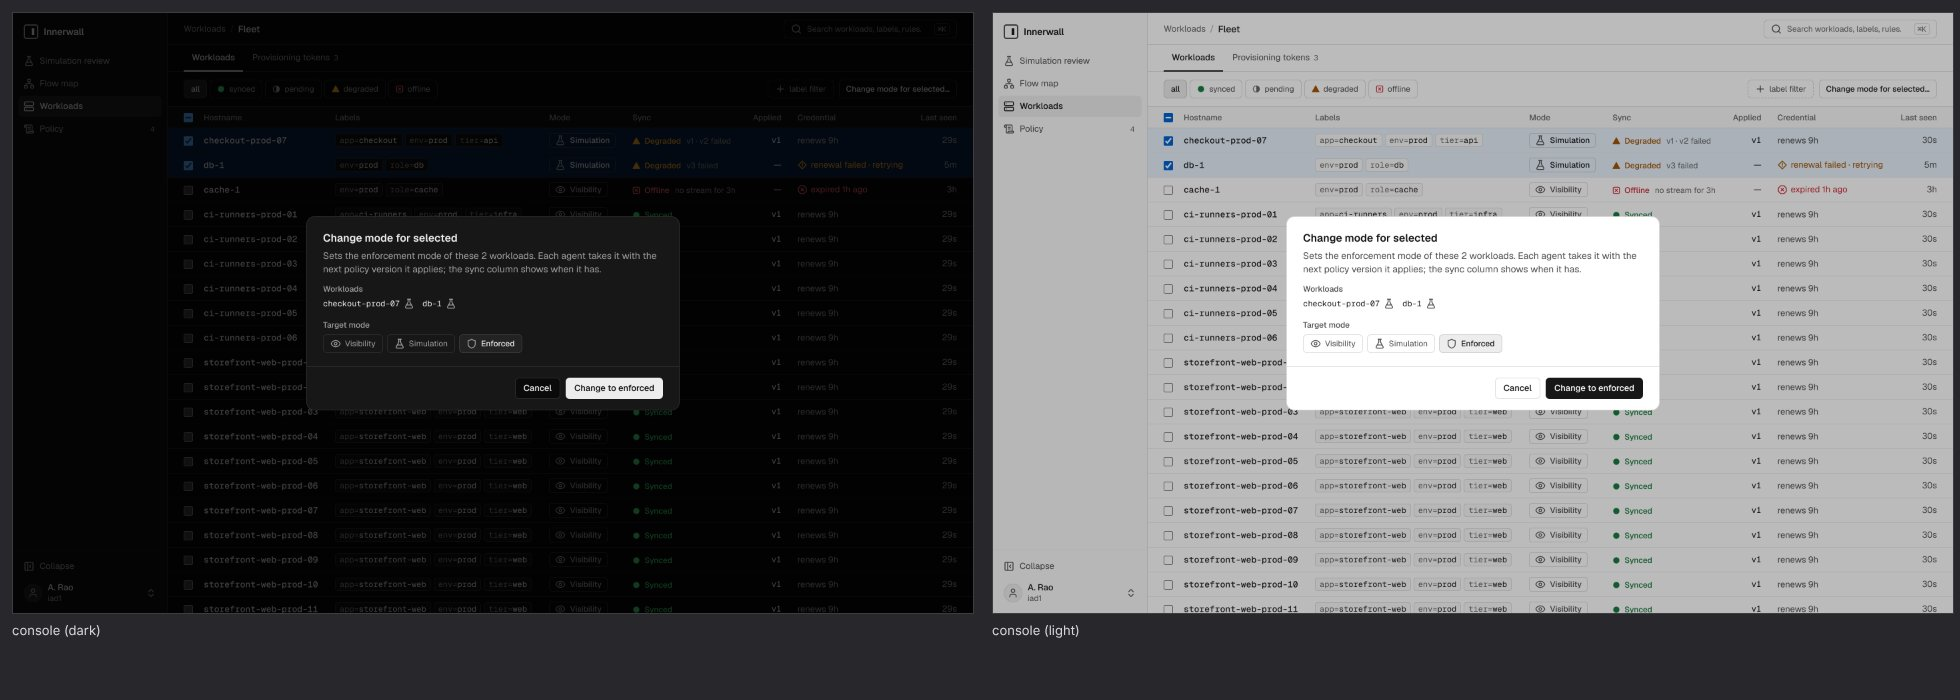
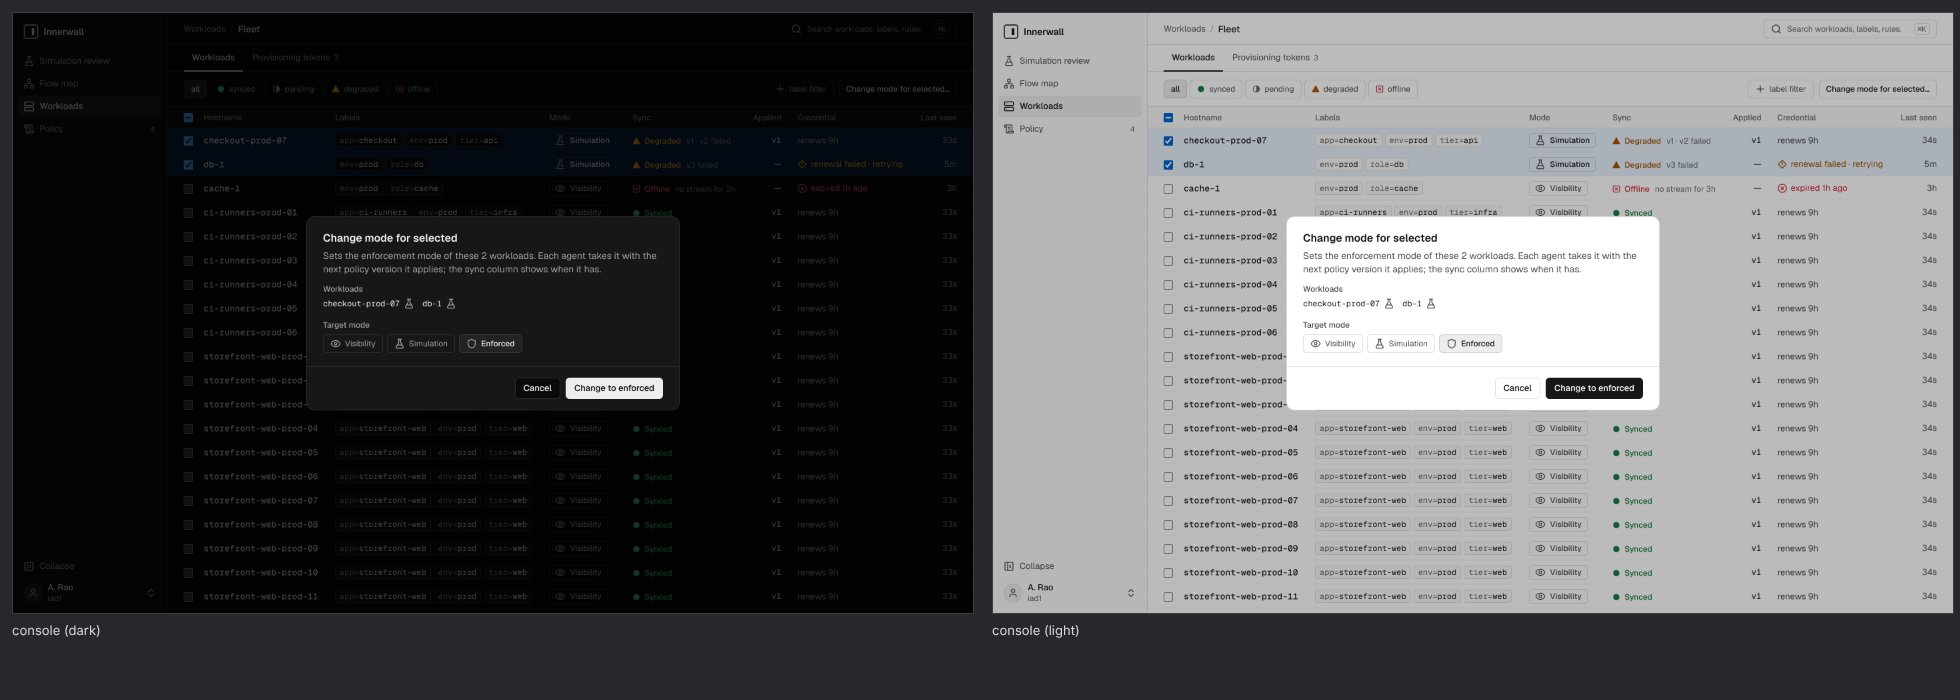
ui: fleet rows at the row-dense pitch, hairline included
Per the maintainer's ruling, row-dense is the row pitch including its
1px separator (the reference stylesheet's .iw-td is 36px under
box-sizing: border-box), so the fleet cell takes 7px above the 22px
mode pill and 6px below it: rows measure 36px. docs/design/PACKAGE.md
records the interpretation as a dated clarification, and the two
fleet composites are recaptured from a fresh seed.

diff --git a/ui/src/routes/fleet/WorkloadList.tsx b/ui/src/routes/fleet/WorkloadList.tsx
@@ -294,8 +294,10 @@ function Row({
 	const labels = labelPairs(w.labels);
 	const cred = credential(w);
 	const note = syncNote(w);
+	// row-dense is the row pitch including its hairline: the 22px mode
+	// pill, 7px above and 6px below it, and the 1px separator make 36.
 	const cell =
-		"h-row-dense border-b border-subtle px-3 py-[7px] type-ui [&>*]:align-middle";
+		"h-row-dense border-b border-subtle px-3 pt-[7px] pb-[6px] type-ui [&>*]:align-middle";
 	return (
 		// The whole row opens the workload for a pointer; the hostname link
 		// is the keyboard's way in, and the checkbox selects without opening.

diff --git a/docs/design/PACKAGE.md b/docs/design/PACKAGE.md
@@ -53,6 +53,10 @@ Both are drawn on the 16×16 grid at a 1.5px stroke, at the `glyph-sm` / `glyph-
   - `error`: credential expired, and every refusal, problem, and validation error.
 - **Design-system artifact.** The design-system artifact of record (StatusGlyph doc, README status section, legend board) is updated to match separately.
 
+## Clarifications
+
+- **2026-10-08, maintainer-ruled: `row-dense` is the row pitch, separator included.** The reference stylesheet gives `.iw-td` `height: var(--row-dense)` under `box-sizing: border-box`, so a body row's 1px `border-subtle` hairline sits inside the 36px. That leaves a 35px box for content and padding. In the fleet table, the 22px tinted mode pill takes 7px of padding above and 6px below. The token's value is unchanged; this records how the console measures it.
+
 ## Errata
 
 - "Known non-screens" says the Policy nav entry "links nowhere by design". That sentence describes the canvas, not the repository. The repository's Policy entry links to `/policy`, the shipped policy editor.
